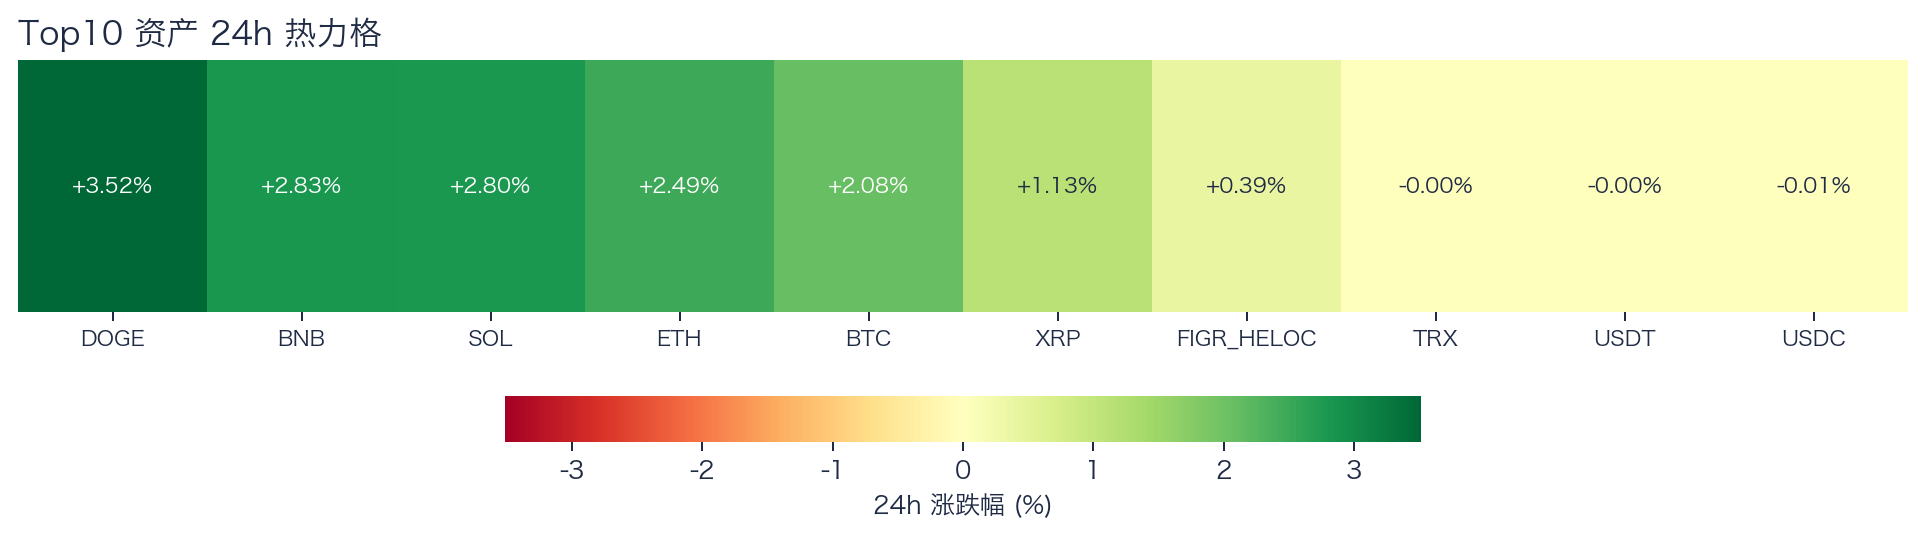
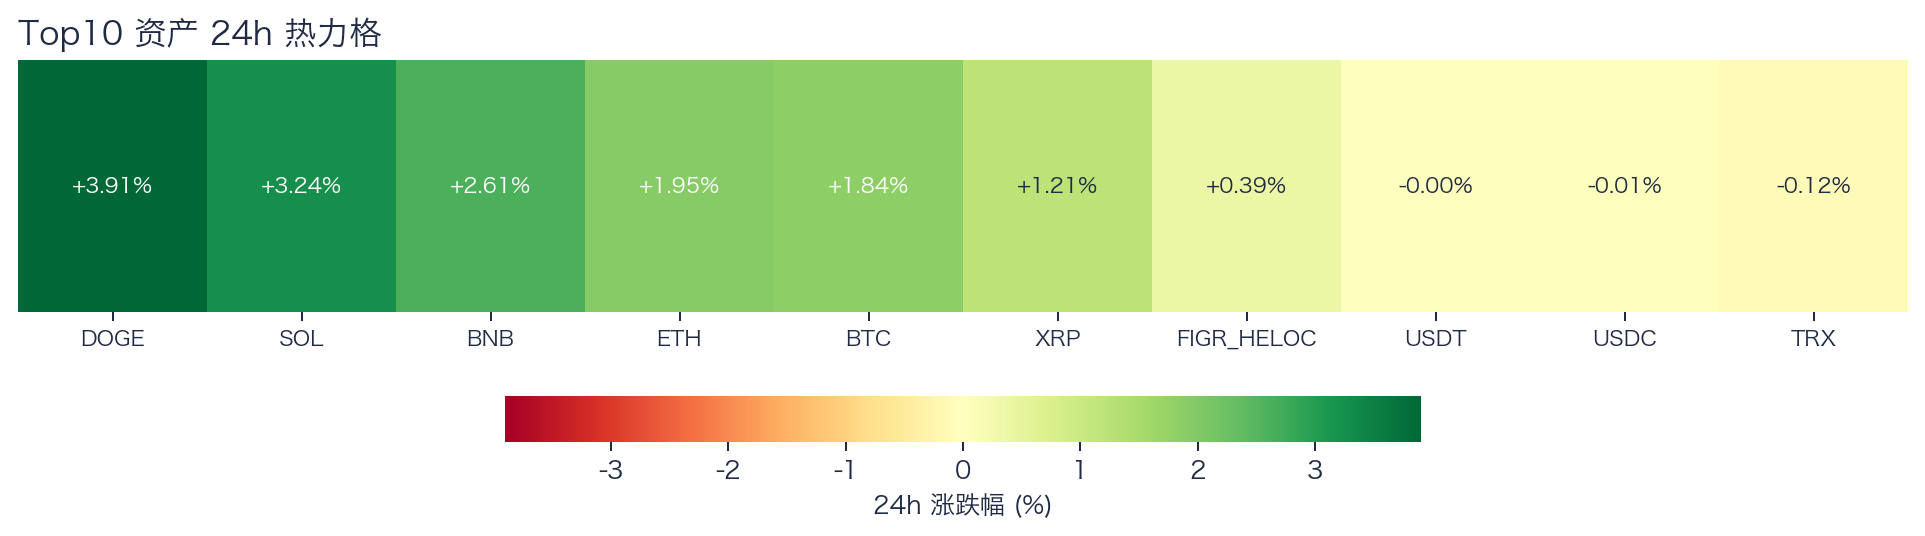
gitbook: refine non-defi chart and remove official-jargon wording

diff --git a/gitbook/daily/2026-03-25/README.md b/gitbook/daily/2026-03-25/README.md
@@ -2,9 +2,9 @@
 
 ## 关键结论
 - 全市场市值 $2.42T（24h -0.37%），成交额 $95.66B（24h -23.30%）。
-- BTC 主导率 58.35%（-0.10pct），Top10 外占比 6.83%。
-- Top10 资产上涨 7 / 下跌 3，平均涨跌幅 +1.52%，首尾分化 3.53pct。
-- 衍生品：BTC/ETH 资金费率分别为 +0.16bps / +0.00bps，DVOL 收盘 50.96 / 73.09。
+- BTC 主导率 58.35%（-0.10pct），Top10 外占比 7.01%。
+- Top10 资产上涨 7 / 下跌 3，平均涨跌幅 +1.50%，首尾分化 4.03pct。
+- 衍生品：BTC/ETH 资金费率分别为 +0.16bps / +0.00bps，DVOL 收盘 50.93 / 73.22。
 
 ## 今日盘面判断
 如果只用一句话概括今天的市场，关键词是 `Defensive Drift`。价格与成交同步走弱，属于防守型下移结构，短线以控制回撤为主。广度仍偏窄，增量风险偏好尚未形成持续外溢。这意味着短线虽然有可交易的弹性，但要把它理解成新一轮趋势启动，证据还不够。
@@ -15,8 +15,8 @@
 ## BTC/ETH 24h 趋势判断
 ![BTC/ETH 24h价格路径](charts/chart_btc_eth_24h_trend.png)
 
-- BTC：$71,604.03（24h +1.98%，区间 $68,923.07 - $72,026.09，当前位于区间 86%）=> 偏强震荡。
-- ETH：$2,185.99（24h +2.30%，区间 $2,103.02 - $2,199.02，当前位于区间 86%）=> 偏强，上行主导。
+- BTC：$71,532.63（24h +1.81%，区间 $68,923.07 - $72,026.09，当前位于区间 84%）=> 偏强震荡。
+- ETH：$2,182.56（24h +1.90%，区间 $2,103.02 - $2,199.02，当前位于区间 83%）=> 偏强震荡。
 - 简评：BTC 与 ETH 同步偏强，短线仍有上行动能。
 
 ## 稳定币收益情况（链上协议）
@@ -35,7 +35,7 @@
 - 利用率最高样本：Aave-USDC（Ethereum） 75.52%，Borrow APY 3.34%。
 - 奖励收益池数量：1 个。当前收益主体仍以原生利率为主。
 
-重点池（官方口径）
+重点池（摘要）
 - Spark-USDT（Ethereum）：Total 3.44% / TVL $665.26M / Utilization N/A。
 - Compound-USDC（Ethereum）：Total 2.56% / TVL $120.14M / Utilization N/A。
 - Aave-USDC（Base）：Total 2.32% / TVL $104.62M / Utilization 71.63%。
@@ -47,11 +47,11 @@
 ![非DeFi期现快照](charts/chart_nondefi_carry_snapshot.png)
 
 样本范围覆盖 Binance 与 OKX 的 BTC/ETH 现货与永续，用于观察 funding 与 basis 的当期结构。
-- Funding 最高样本：Binance-BTC，年化约 3.06%。
-- Funding 最低样本：OKX-ETH，年化约 -11.35%。
-- Basis 偏离最大：Binance-ETH，相对指数约 -0.03%。
+- Funding 最高样本：Binance-BTC，年化约 3.17%。
+- Funding 最低样本：OKX-ETH，年化约 -11.06%。
+- Basis 偏离最大：Binance-ETH，相对指数约 -0.08%。
 - 交易含义：当 funding 年化显著高于 basis 且持续为正，carry 交易更偏向收取 funding；若 basis 与 funding 同步回落，需降低杠杆并关注资金回流速度。
-本段为交易所公开行情口径，不与链上收益口径混合。
+该部分与链上收益分开统计，便于比较两类策略的收益与风险结构。
 
 ## 市场脉冲
 ![全市场当日水平](charts/chart_market_snapshot_levels.png)
@@ -67,34 +67,34 @@
 ## 主导率与市场广度
 ![市场广度快照](charts/chart_market_breadth_snapshot.png)
 
-当前结构为 BTC 58.35% / Top2-10 34.82% / Top10 外 6.83%。长尾占比仍偏低，广度修复还未形成持续趋势。
+当前结构为 BTC 58.35% / Top2-10 34.64% / Top10 外 7.01%。长尾占比仍偏低，广度修复还未形成持续趋势。
 Top10 外占比处于低位，风险偏好仍主要停留在 BTC 与头部资产。换句话说，资金目前更愿意在高流动性的核心资产里做仓位调整，而不是大面积扩散到长尾资产。
 
 ## 资产与交易所资金流
 ![Top10资产24h表现](charts/chart_top10_assets_24h.png)
 
-Top10 中领涨 DOGE（+3.52%），尾部 USDC（-0.01%），均值 +1.52%。分化 3.53pct，结构性交易仍是主导。
+Top10 中领涨 DOGE（+3.91%），尾部 TRX（-0.12%），均值 +1.50%。分化 4.03pct，结构性交易仍是主导。
 上涨家数明显占优，但首尾分化仍大，表明反弹并非无差别普涨。对交易而言，这通常意味着“选币”比“全市场方向”更重要，错配带来的收益差会明显放大。
 
 ![前排交易所24h变化](charts/chart_exchange_24h_change.png)
 
-前排样本上涨 8 家、下跌 2 家，均值 -2.18%。Coinbase Exchange 最强（+12.47%），KuCoin 最弱（-72.98%）。
-最强与最弱平台的 24h 变化差达到 85.45pct，说明流动性仍在选择性回流，头部平台的价格发现能力更强。当平台间流量分化明显时，报价连续性和滑点表现会同步分化，执行层面要更关注成交质量。
+前排样本上涨 8 家、下跌 2 家，均值 -2.94%。Coinbase Exchange 最强（+16.14%），KuCoin 最弱（-72.99%）。
+最强与最弱平台的 24h 变化差达到 89.13pct，说明流动性仍在选择性回流，头部平台的价格发现能力更强。当平台间流量分化明显时，报价连续性和滑点表现会同步分化，执行层面要更关注成交质量。
 
 ![交易所现货衍生品结构](charts/chart_exchange_spot_deriv_structure.png)
 
-样本内衍生品成交占比 85.59%。若该占比继续走高且 funding 不同步回落，短线波动脉冲通常会增强。
+样本内衍生品成交占比 85.56%。若该占比继续走高且 funding 不同步回落，短线波动脉冲通常会增强。
 衍生品占比处于高位，行情更容易出现脉冲式放大，风控阈值建议偏保守。这也是为什么同样的消息面在当前阶段更容易被放大成大振幅走势。
 
 ## 衍生品与情绪
 ![衍生品快照](charts/chart_derivatives_snapshot.png)
 
-资金费率（Funding）仍在中性附近，BTC/ETH 分别 +0.16bps / +0.00bps；未平仓合约（OI）为 $959.78M / $286.90M；隐含波动率指数（DVOL）位于 Neutral（中性波动定价） / Panic（高波动溢价）。
+资金费率（Funding）仍在中性附近，BTC/ETH 分别 +0.16bps / +0.00bps；未平仓合约（OI）为 $959.68M / $286.57M；隐含波动率指数（DVOL）位于 Neutral（中性波动定价） / Panic（高波动溢价）。
 资金费率接近中性，说明方向拥挤度有限；但 DVOL 仍偏高，市场对突发波动仍保留保险溢价。因此更合适的做法不是激进追单边，而是围绕波动管理仓位和节奏。
 
 ![情绪与波动当日快照](charts/chart_sentiment_snapshot.png)
 
-恐惧与贪婪指数（F&G）当日 14（较前日 +3）；配合 BTC/ETH DVOL 50.96/73.09，当前更像情绪修复中的高波动区。
+恐惧与贪婪指数（F&G）当日 14（较前日 +3）；配合 BTC/ETH DVOL 50.93/73.22，当前更像情绪修复中的高波动区。
 恐惧区内出现边际改善，说明市场开始试探修复，但尚不足以支持激进风险暴露。只有当情绪、广度和成交三者同时改善，市场才更可能从“反弹交易”切换到“趋势交易”。
 
 ## 未来24小时观察
